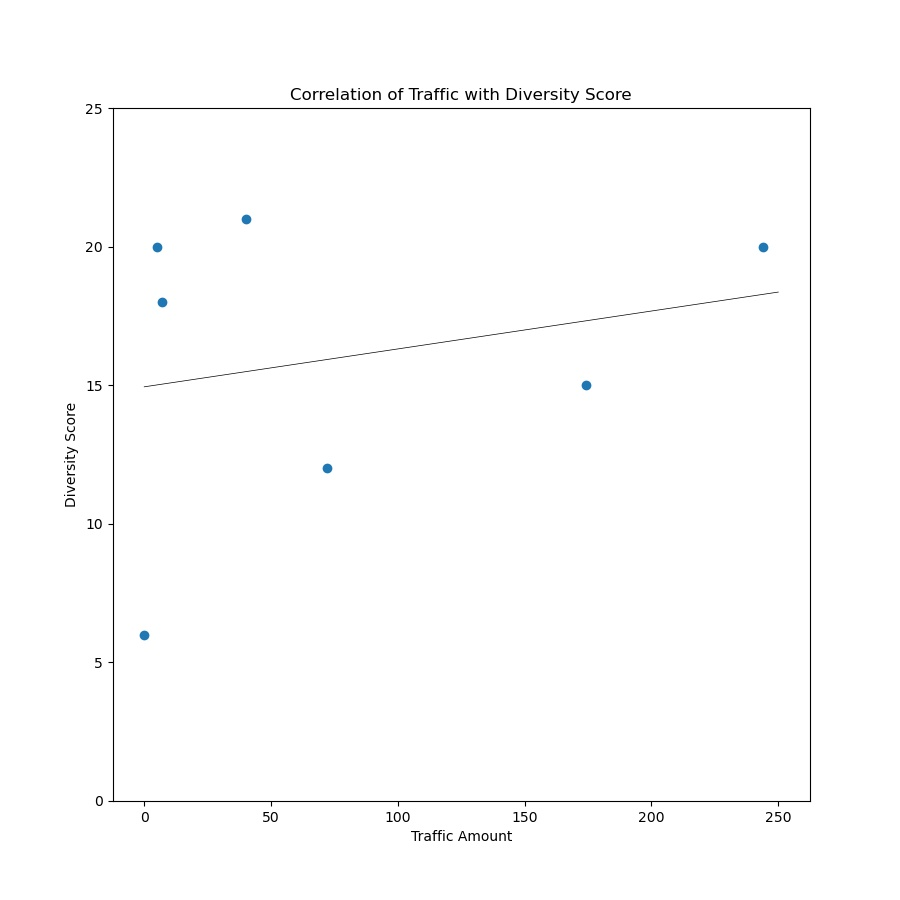
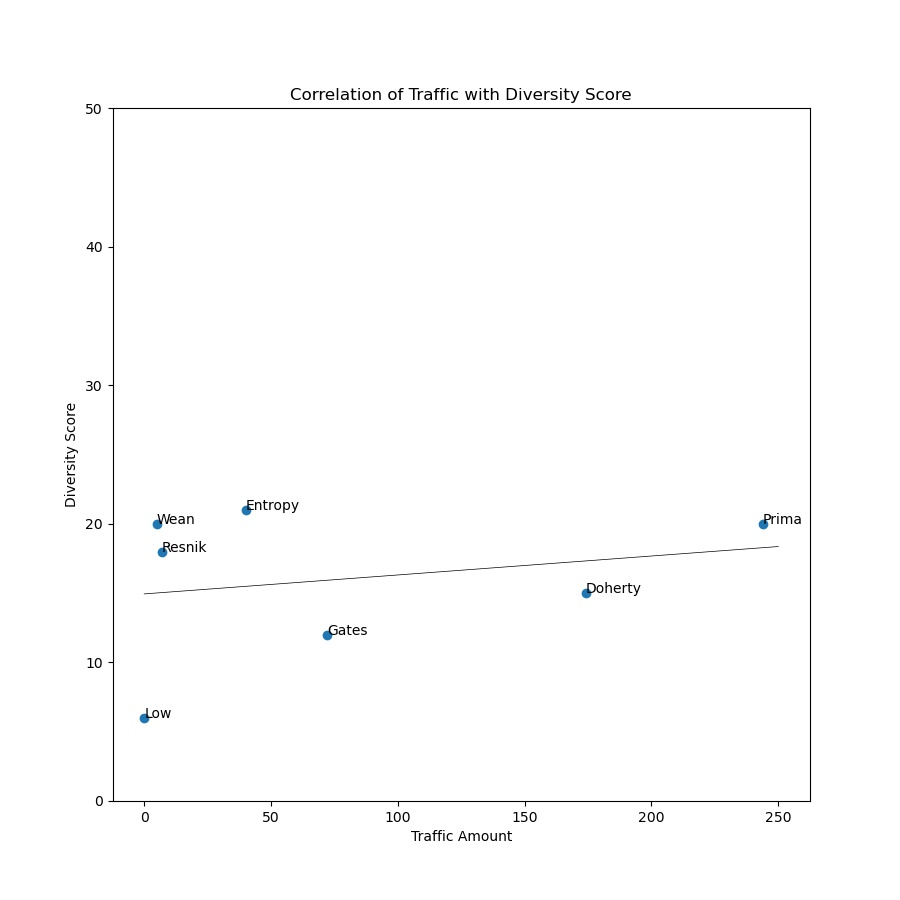
add plt annotations

diff --git a/traffic.py b/traffic.py
@@ -8,7 +8,13 @@ fig, ax = plt.subplots(figsize = (9, 9))
 
 traffic_data = list(map(int, pd.read_csv("./traffic-data.csv")["Traffic"]))
 cluster_data = [15, 21, 12, 6, 20, 18, 20]
+classes = ['Doherty', 'Entropy', 'Gates', 'Low', 'Prima', 'Resnik', 'Wean']
+
 ax.scatter(traffic_data, cluster_data)
+
+for i, txt in enumerate(classes):
+    ax.annotate(txt, (traffic_data[i], cluster_data[i]))
+
 plt.xlabel("Traffic Amount")
 plt.ylabel("Diversity Score")
 plt.ylim((0, 50))
